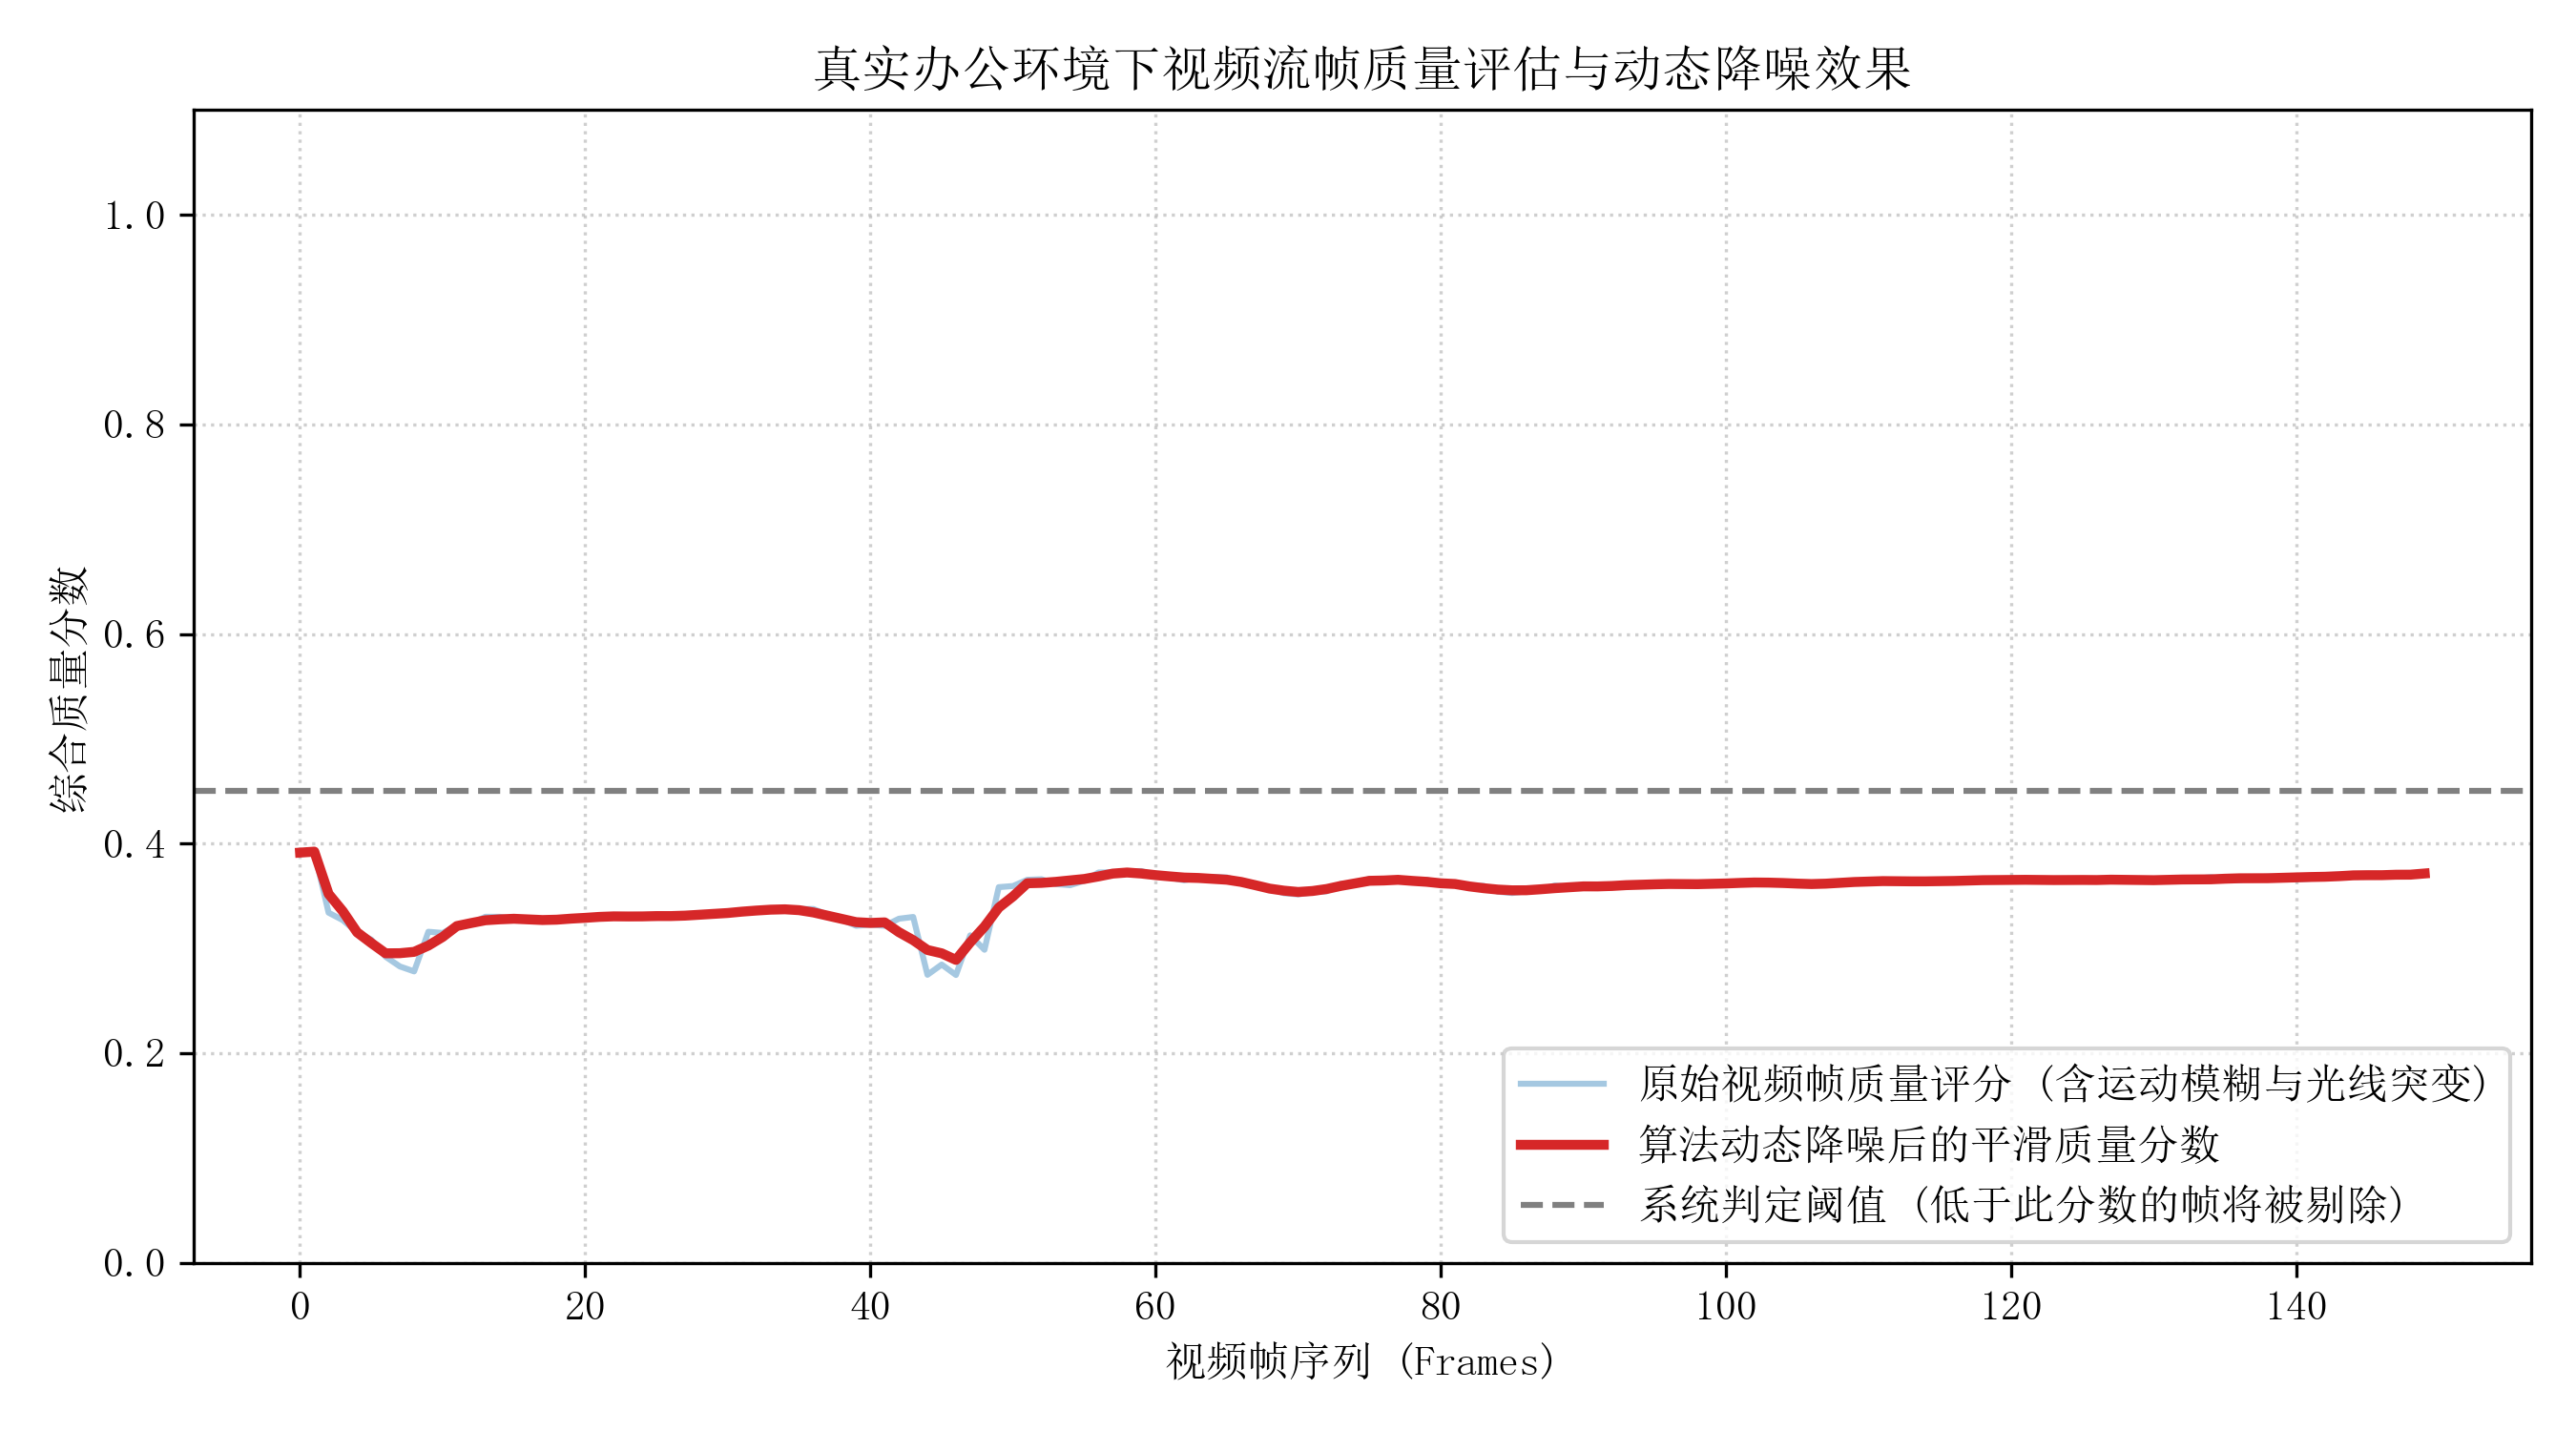
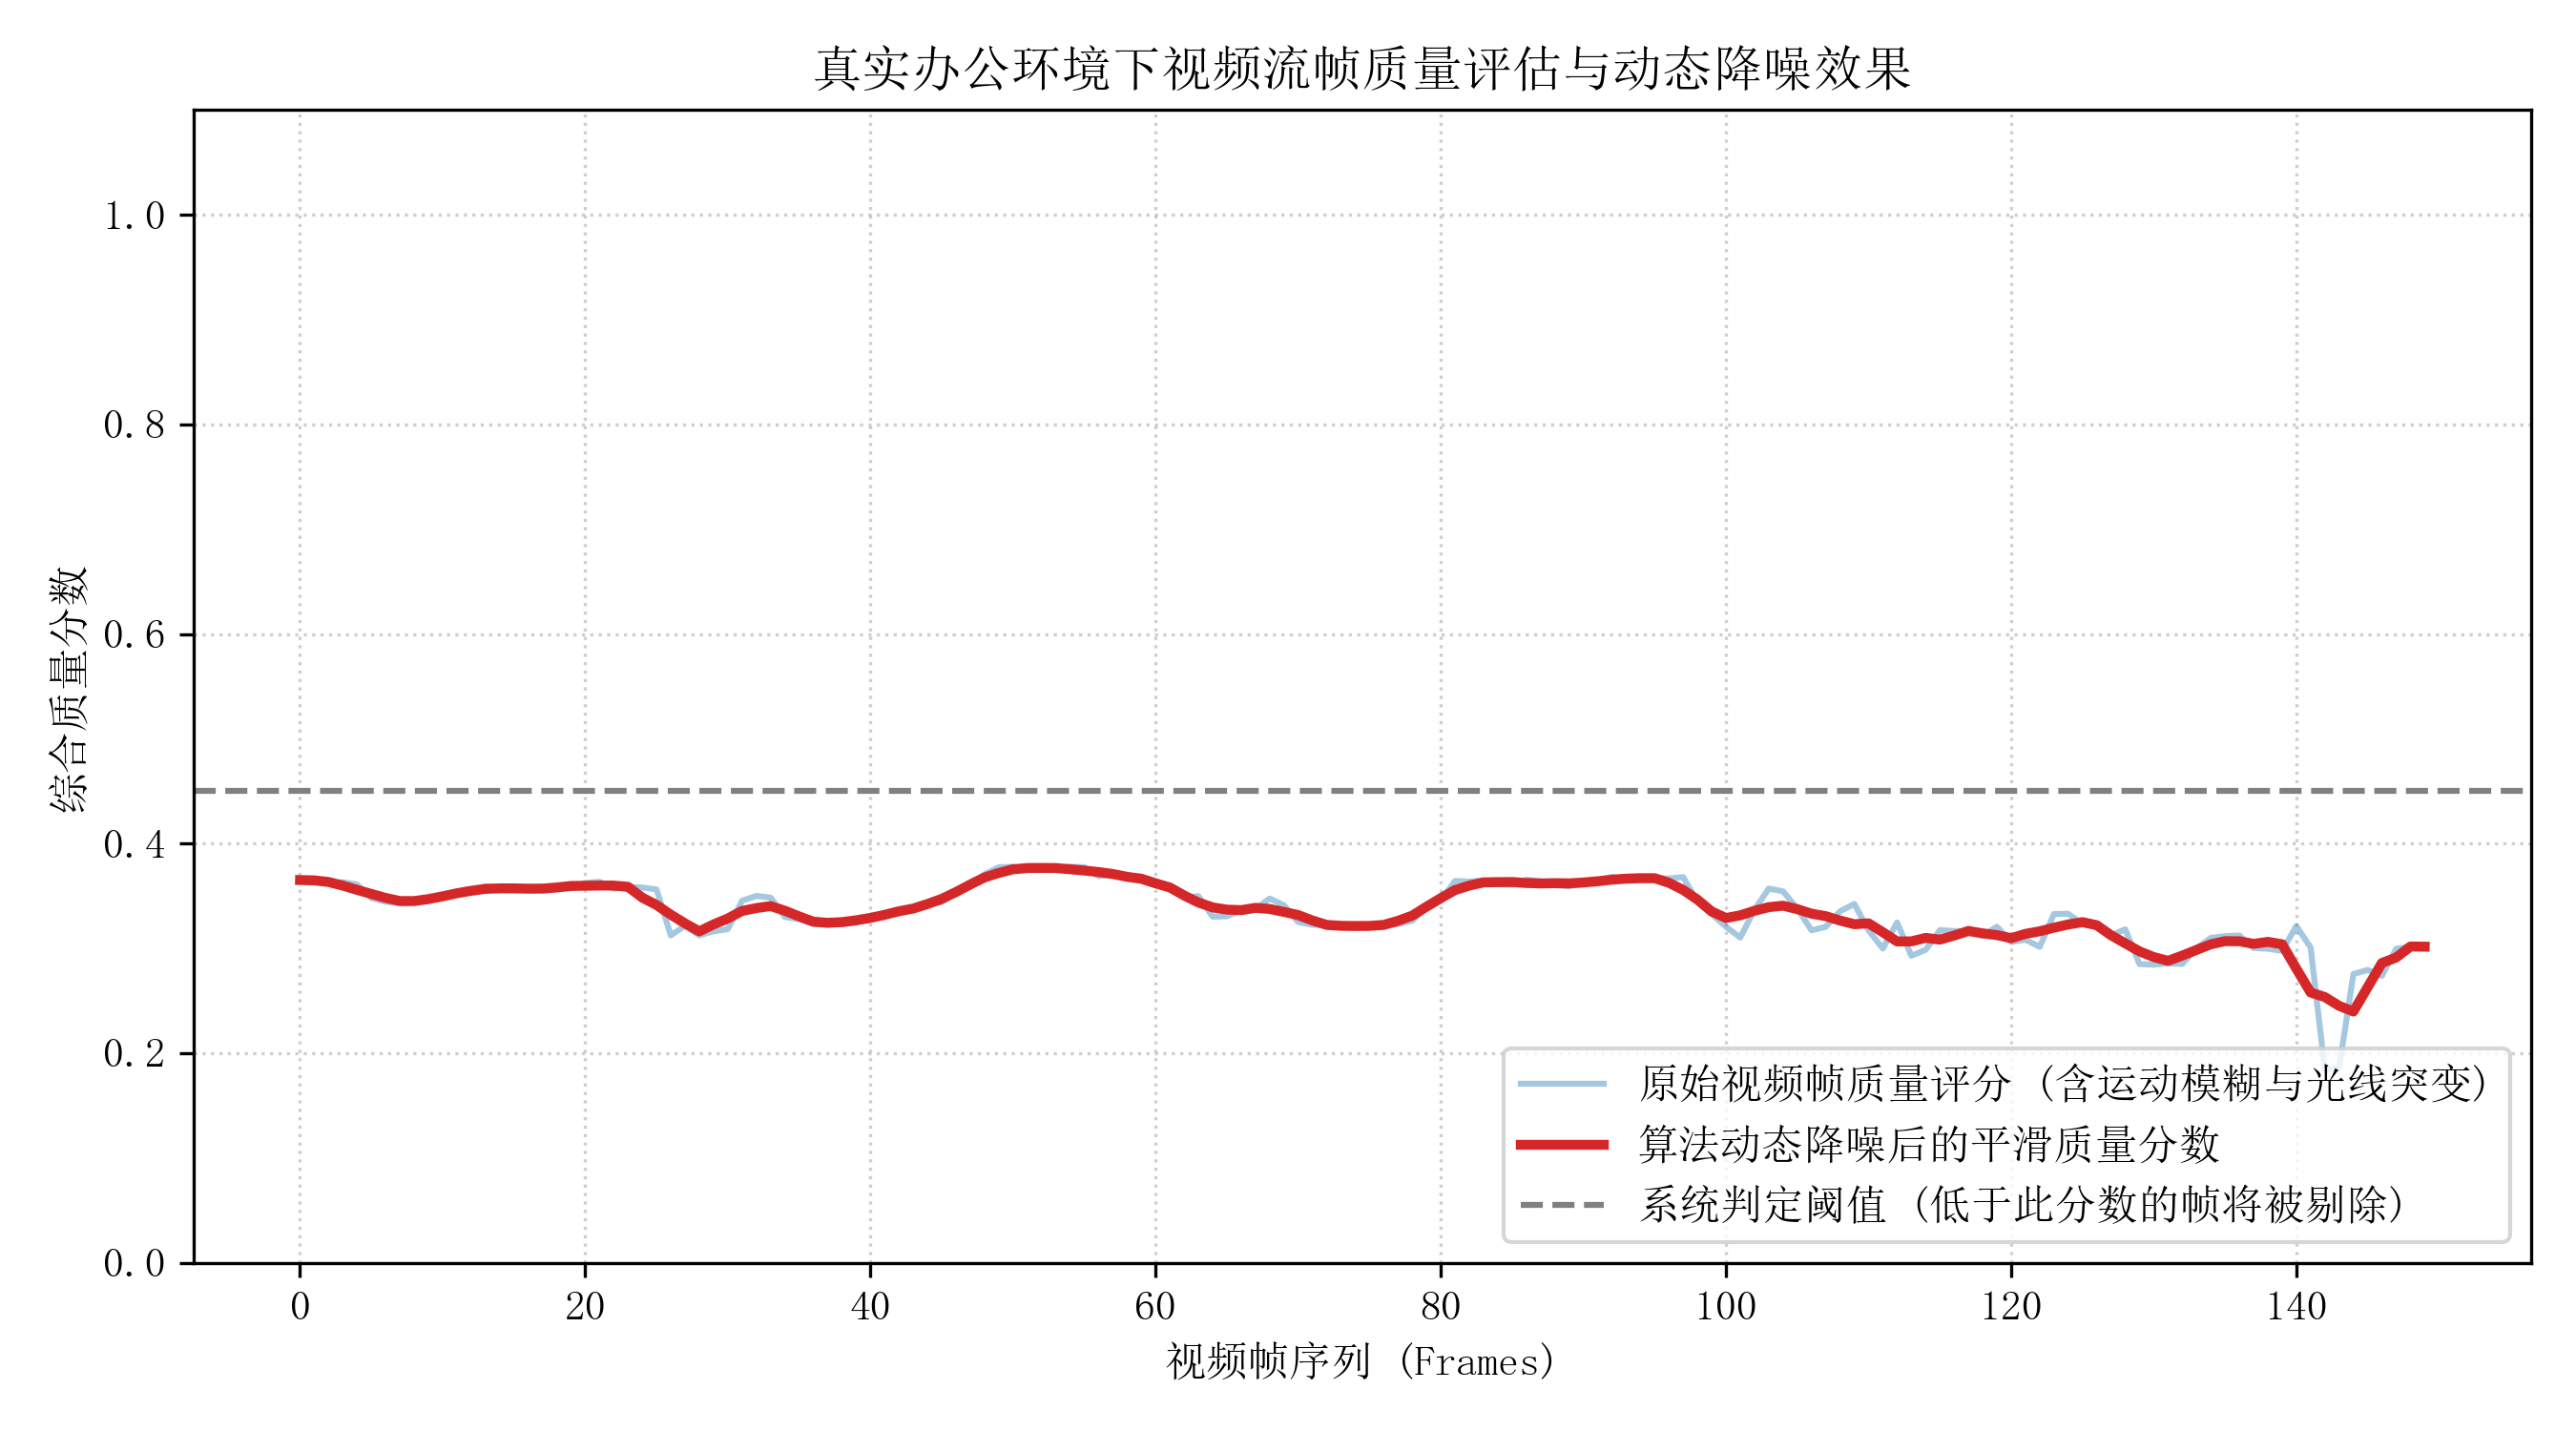
fix: 修正摄像头初始化和窗口显示逻辑，优化实时视频质量评估

Changed region(s): [[0.1244, 0.5827, 0.9333, 0.7053], [0.0933, 0.5827, 0.1244, 0.6133]]

diff --git a/capture_real_video.py b/capture_real_video.py
@@ -31,7 +31,7 @@ def assess_frame_quality(frame):
 
 def main():
     print("[INFO] 正在唤醒电脑摄像头...")
-    # 如果你之前用的是 cap = cv2.VideoCapture(0, cv2.CAP_DSHOW)，请自行加上 CAP_DSHOW
+    # 如果 Windows 系统仍然报错，请将其修改为 cv2.VideoCapture(0, cv2.CAP_DSHOW)
     cap = cv2.VideoCapture(0) 
     
     if not cap.isOpened():
@@ -56,36 +56,38 @@ def main():
 
     print("[INFO] 🔴 开始录制！请开始你的表演！")
 
-    # 在循环开始前，创建一个可自由缩放的窗口
+    # ==========================================
+    # 核心修正：在唯一的一个录制循环前，初始化 3:4 比例窗口
+    # ==========================================
     cv2.namedWindow("IoT Real-time Quality Capture", cv2.WINDOW_NORMAL)
-    # 强制将窗口初始化为 480x640 (3:4 的竖屏小窗口)
-    cv2.resizeWindow("IoT Real-time Quality Capture", 480, 640)
+    cv2.resizeWindow("IoT Real-time Quality Capture", 480, 640) # 强制给 Windows 一个初试尺寸
 
     for i in range(frames_to_capture):
         ret, frame = cap.read()
         if not ret:
             break
             
-        # 计算每一帧的真实质量分数 (用原始画质算，保证准确)
+        # 计算每一帧的真实质量分数
         score = assess_frame_quality(frame)
         scores.append(score)
         
-        # 把显示画面强制转换为 3:4 (宽480, 高640) 竖屏显示
-        # 这样窗口非常小巧，你的脸也能放到正中间
+        # 核心修正：将画面强制裁剪或调整为 3:4 的 480x640 竖屏小画面
         display_frame = cv2.resize(frame, (480, 640))
         
-        # 在画面上实时显示数据
+        # 在变形后的标准 3:4 画面上绘制学术文本
         color = (0, 0, 255) if score < 0.5 else (0, 255, 0)
         cv2.putText(display_frame, f"Frame: {i+1}/{frames_to_capture}", (20, 40), 
                     cv2.FONT_HERSHEY_SIMPLEX, 0.8, (255, 255, 255), 2)
         cv2.putText(display_frame, f"Quality Score: {score:.2f}", (20, 80), 
                     cv2.FONT_HERSHEY_SIMPLEX, 0.8, color, 2)
         
+        # 展现干净紧凑的小窗口
         cv2.imshow("IoT Real-time Quality Capture", display_frame)
         
         if cv2.waitKey(20) & 0xFF == ord('q'):
             break
 
+    # 录制结束后，一次性释放并销毁所有窗口
     cap.release()
     cv2.destroyAllWindows()
     print("[INFO] 录制完成！正在生成最终学术图表...")